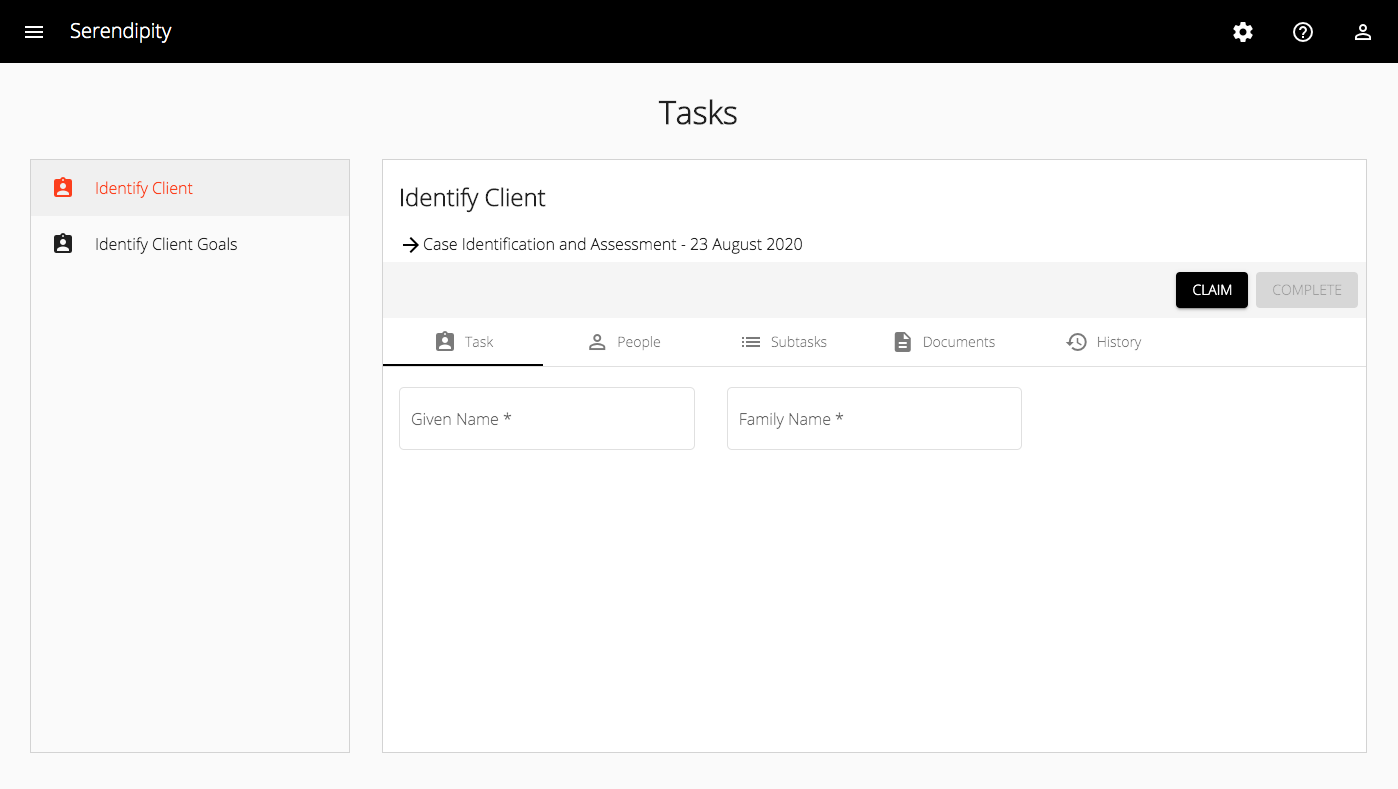
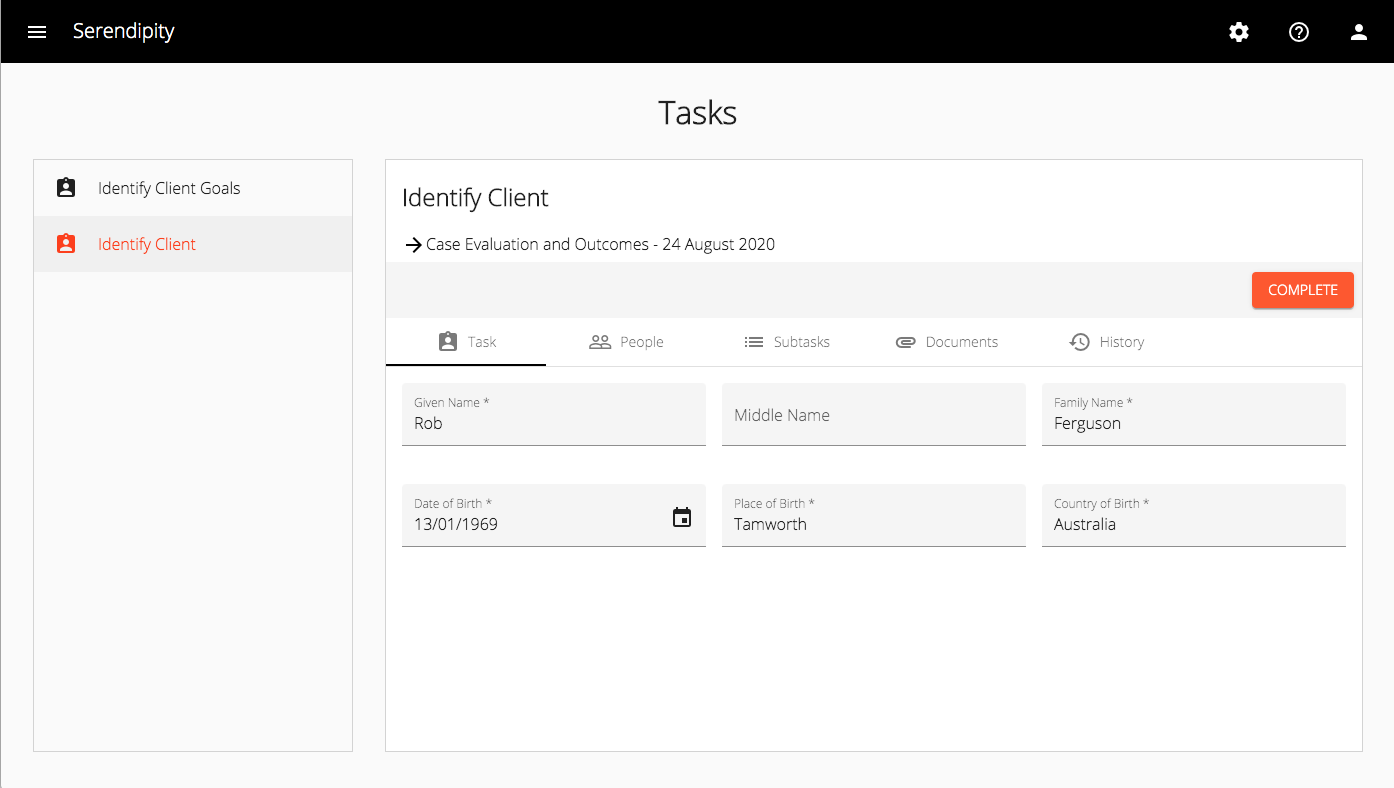
Updated the Flowable Task component

diff --git a/projects/party/src/lib/components/contact/contact.component.html b/projects/party/src/lib/components/contact/contact.component.html
@@ -12,14 +12,14 @@
     <button mat-button class="crm-command-bar-button"
         [disabled]="!isDirty() || !isValid()"
         (click)="onSaveAndClose()">
-      <mat-icon>arrow_back</mat-icon>
+      <mat-icon> arrow_back </mat-icon>
       {{ 'SAVE_AND_CLOSE' | translate }}
     </button>
 
   </ng-container>
 
   <button mat-button class="crm-command-bar-button" (click)="onNew()">
-    <mat-icon>add</mat-icon>
+    <mat-icon> add </mat-icon>
     {{ 'NEW' | translate }}
   </button>
 
@@ -32,12 +32,12 @@
 
   <button mat-button class="crm-command-bar-button"
     (click)="onDeactivate()">
-    <mat-icon>visibility_off</mat-icon>
+    <mat-icon> visibility_off </mat-icon>
     {{ 'DEACTIVATE' | translate }}
   </button>
 
   <button mat-button class="crm-command-bar-button" [disabled]="true">
-    <mat-icon>link</mat-icon>
+    <mat-icon> link </mat-icon>
     {{ 'EMAIL_A_LINK' | translate }}
   </button>
 
@@ -51,7 +51,7 @@
 
     <button mat-button class="crm-command-bar-button"
         (click)="onClose()">
-      <mat-icon>clear</mat-icon>
+      <mat-icon> clear </mat-icon>
     </button>
 
   </div>
@@ -68,7 +68,8 @@
 
   <ng-container *ngIf="item">
 
-    <mat-tab-group (selectedTabChange)="onTabChanged($event)">
+    <mat-tab-group [color]="'primary'"
+                   (selectedTabChange)="onTabChanged($event)">
 
       <mat-tab label="{{ 'SUMMARY_TAB' | translate }}">
 
@@ -172,6 +173,8 @@
 </div> <!-- contentContainer -->
 
 <!--
+
+  [backgroundColor]="'accent'"
 
  [leafletLayersControl]="mapLayersControl"
 

diff --git a/src/app/core/components/navigation-bar/navigation-bar.component.html b/src/app/core/components/navigation-bar/navigation-bar.component.html
@@ -14,32 +14,32 @@
 
         <li fxHide.xs>
           <button mat-icon-button>
-            <mat-icon>settings</mat-icon>
+            <mat-icon> settings </mat-icon>
           </button>
         </li>
 
         <li fxHide.xs>
           <button mat-icon-button>
-            <mat-icon>help_outline</mat-icon>
+            <mat-icon> help_outline </mat-icon>
           </button>
         </li>
 
         <li>
           <button mat-icon-button [matMenuTriggerFor]="auth">
-            <mat-icon>person_outline</mat-icon>
+            <mat-icon> person </mat-icon>
           </button>
           <mat-menu #auth="matMenu">
 
             <button mat-menu-item (click)="onProfile()">
-              <mat-icon>person_outline</mat-icon>
-              <span>Profile</span>
+              <mat-icon> person </mat-icon>
+              <span> {{ 'PROFILE_NAVIGATION_BAR_BUTTON' | translate }} </span>
             </button>
 
             <mat-divider></mat-divider>
 
             <button mat-menu-item (click)="logout()">
-              <mat-icon>exit_to_app</mat-icon>
-              <span>Sign out</span>
+              <mat-icon> exit_to_app </mat-icon>
+              <span> {{ 'SIGN_OUT_NAVIGATION_BAR_BUTTON' | translate }} </span>
             </button>
 
           </mat-menu>

diff --git a/projects/flowable/src/lib/components/task/task.component.html b/projects/flowable/src/lib/components/task/task.component.html
@@ -47,7 +47,8 @@
 
 <ng-container>
 
-  <mat-tab-group [(selectedIndex)]="selectedTabIndex"
+  <mat-tab-group [color]="'primary'"
+                 [(selectedIndex)]="selectedTabIndex"
                  (selectedTabChange)="onTabChanged($event)">
 
     <mat-tab>
@@ -74,7 +75,7 @@
     <mat-tab>
 
       <ng-template mat-tab-label>
-        <mat-icon class="task-tab-icon"> person_outline </mat-icon>
+        <mat-icon class="task-tab-icon"> people_outline </mat-icon>
         {{ 'PEOPLE_TAB' | translate }}
       </ng-template>
 
@@ -92,7 +93,7 @@
     <mat-tab>
 
       <ng-template mat-tab-label>
-        <mat-icon class="task-tab-icon"> description </mat-icon>
+        <mat-icon class="task-tab-icon"> attachment </mat-icon>
         {{ 'DOCUMENTS_TAB' | translate }}
       </ng-template>
 
@@ -110,22 +111,3 @@
   </mat-tab-group>
 
 </ng-container>
-
-<!--
-
-https://stackoverflow.com/questions/58874891/how-to-hide-a-material-button
-
-<ng-container *ngIf="task" class="task-header">
-
-  <div class="task-header-content">
-
-    <h2> {{ task.name }} </h2>
-    <button mat-raised-button color="accent" [disabled]="!isValid()" (click)="onComplete()"> {{ completeButton }} </button>
-
-  </div>
-
-</ng-container>
-
--->
-
-<!-- <ng-container class="task-content"> -->

diff --git a/src/styles.scss b/src/styles.scss
@@ -387,7 +387,7 @@ $task-list-width: 320px; // 240px;
 .crm-nested-grid-container {
   display: grid;
   grid-template-columns: repeat(3, 1fr);
-  column-gap: 32px;  // 16px;
+  column-gap: 16px;  // 32px;
   row-gap: 1em;
 }
 
